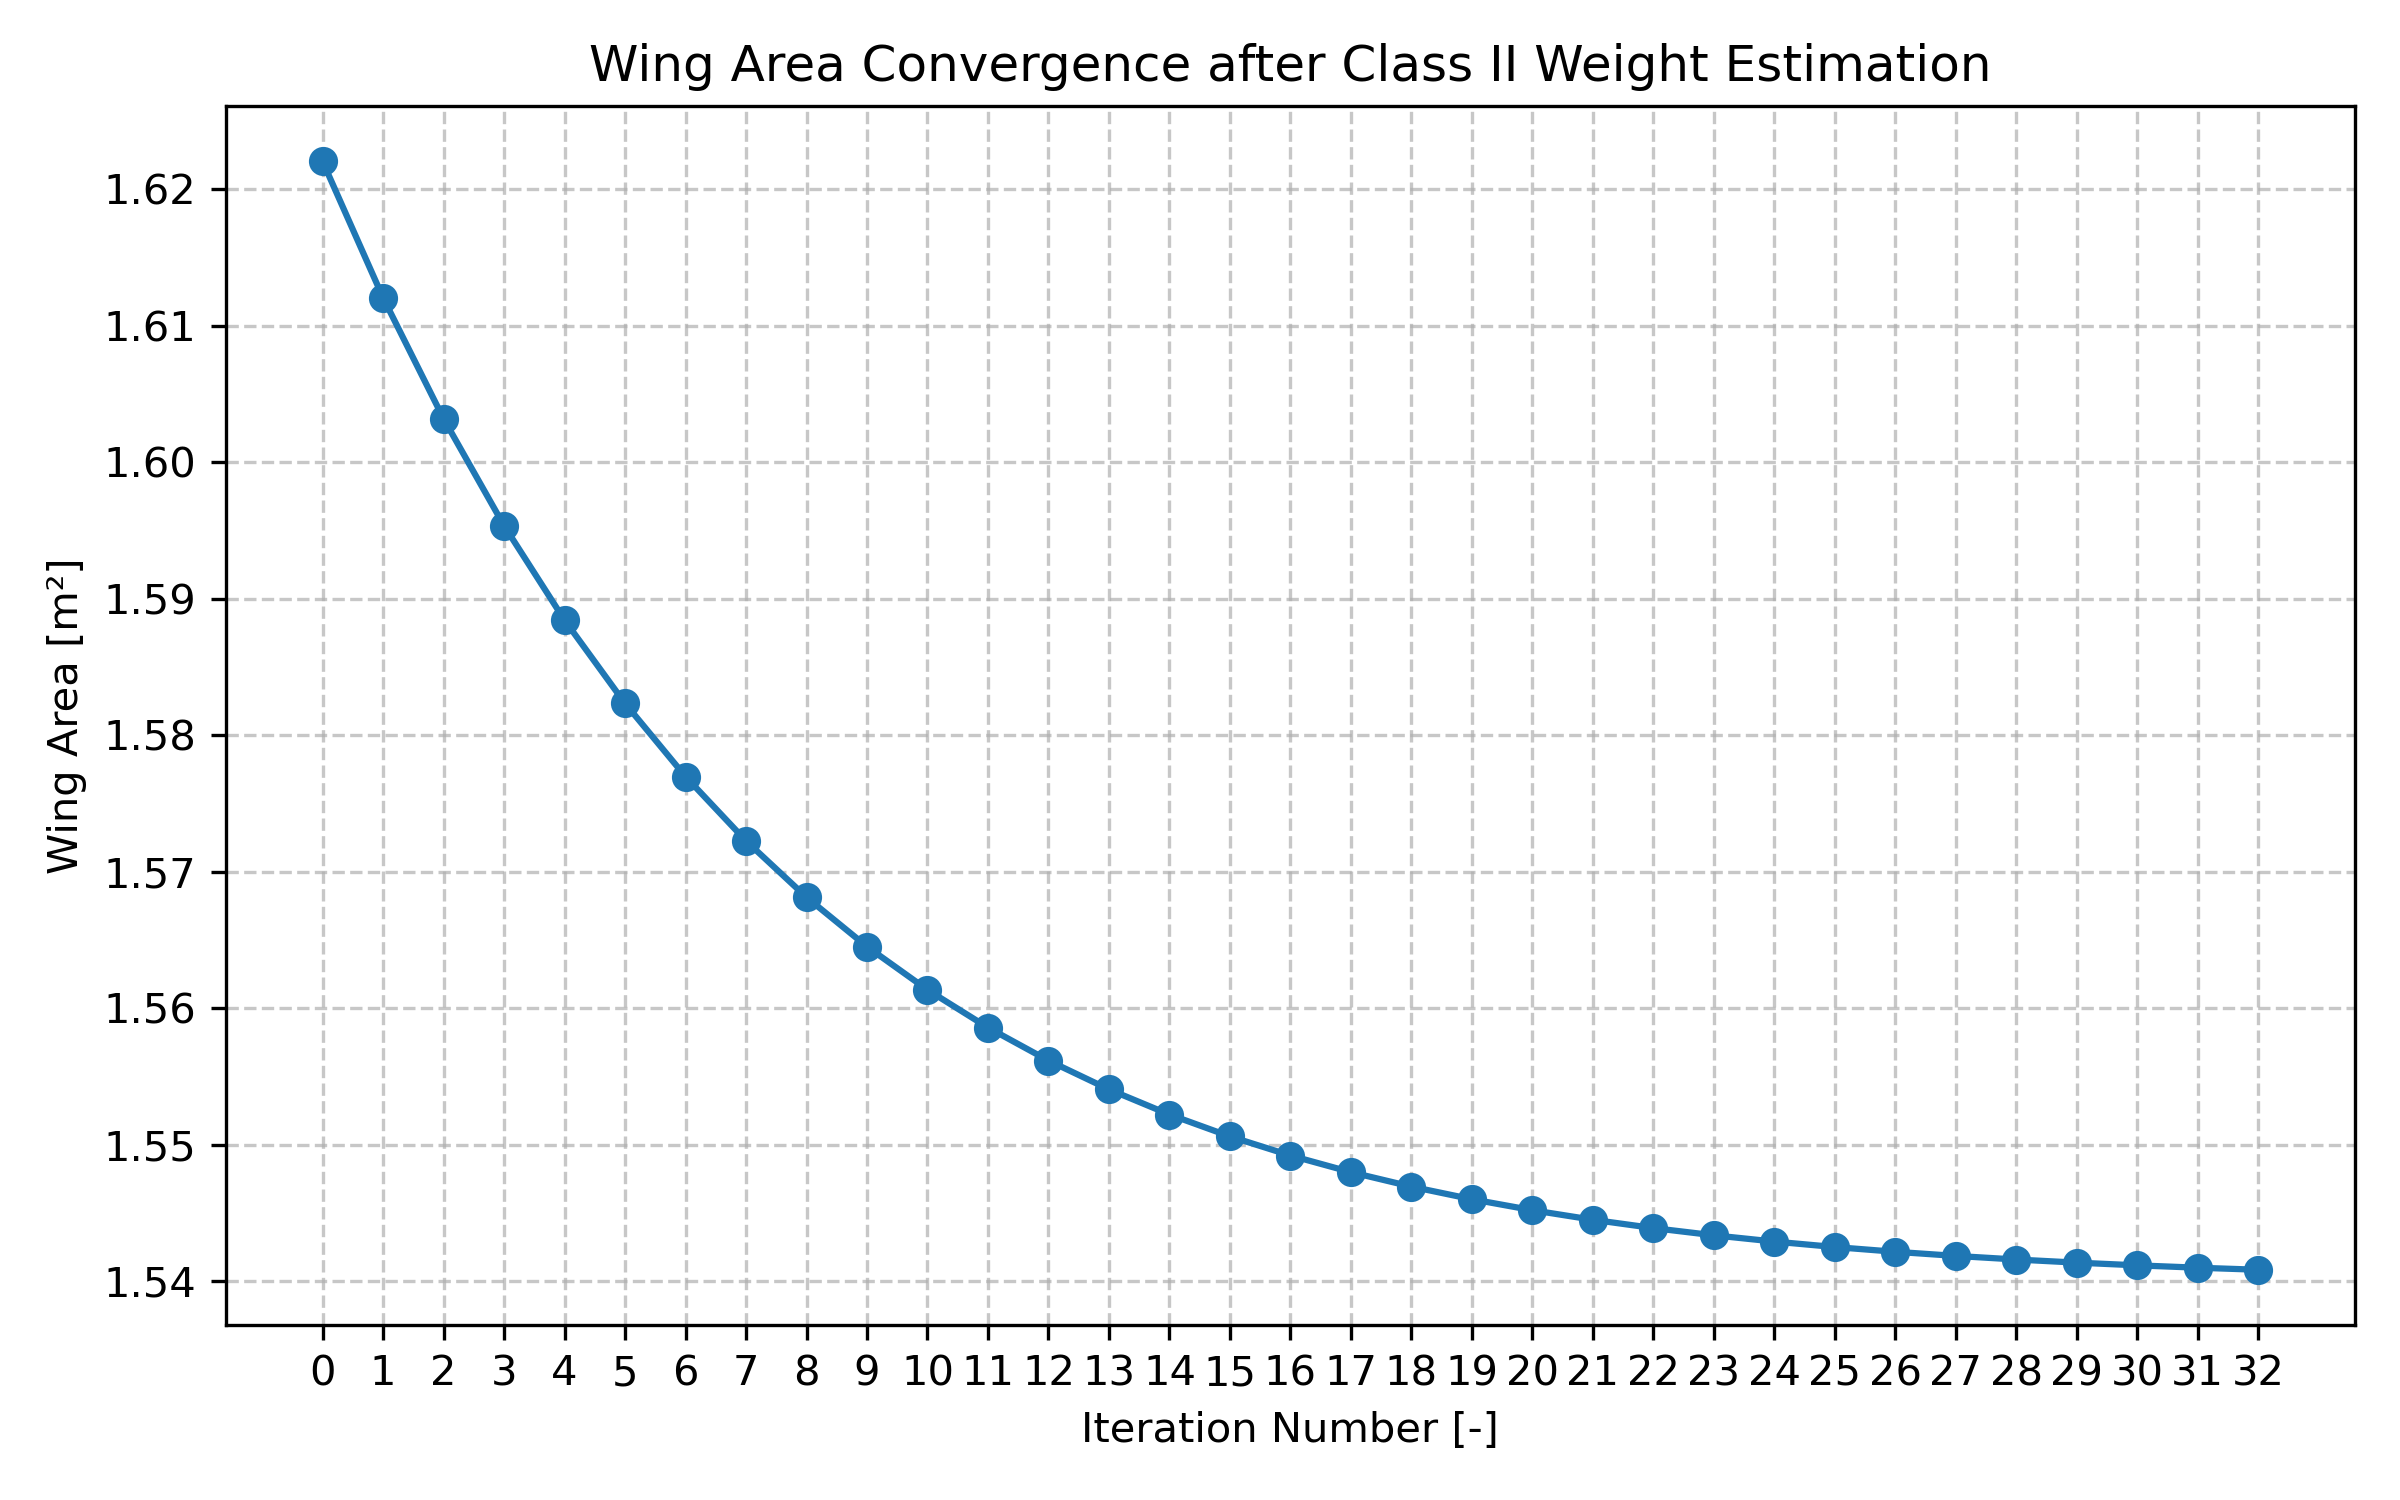
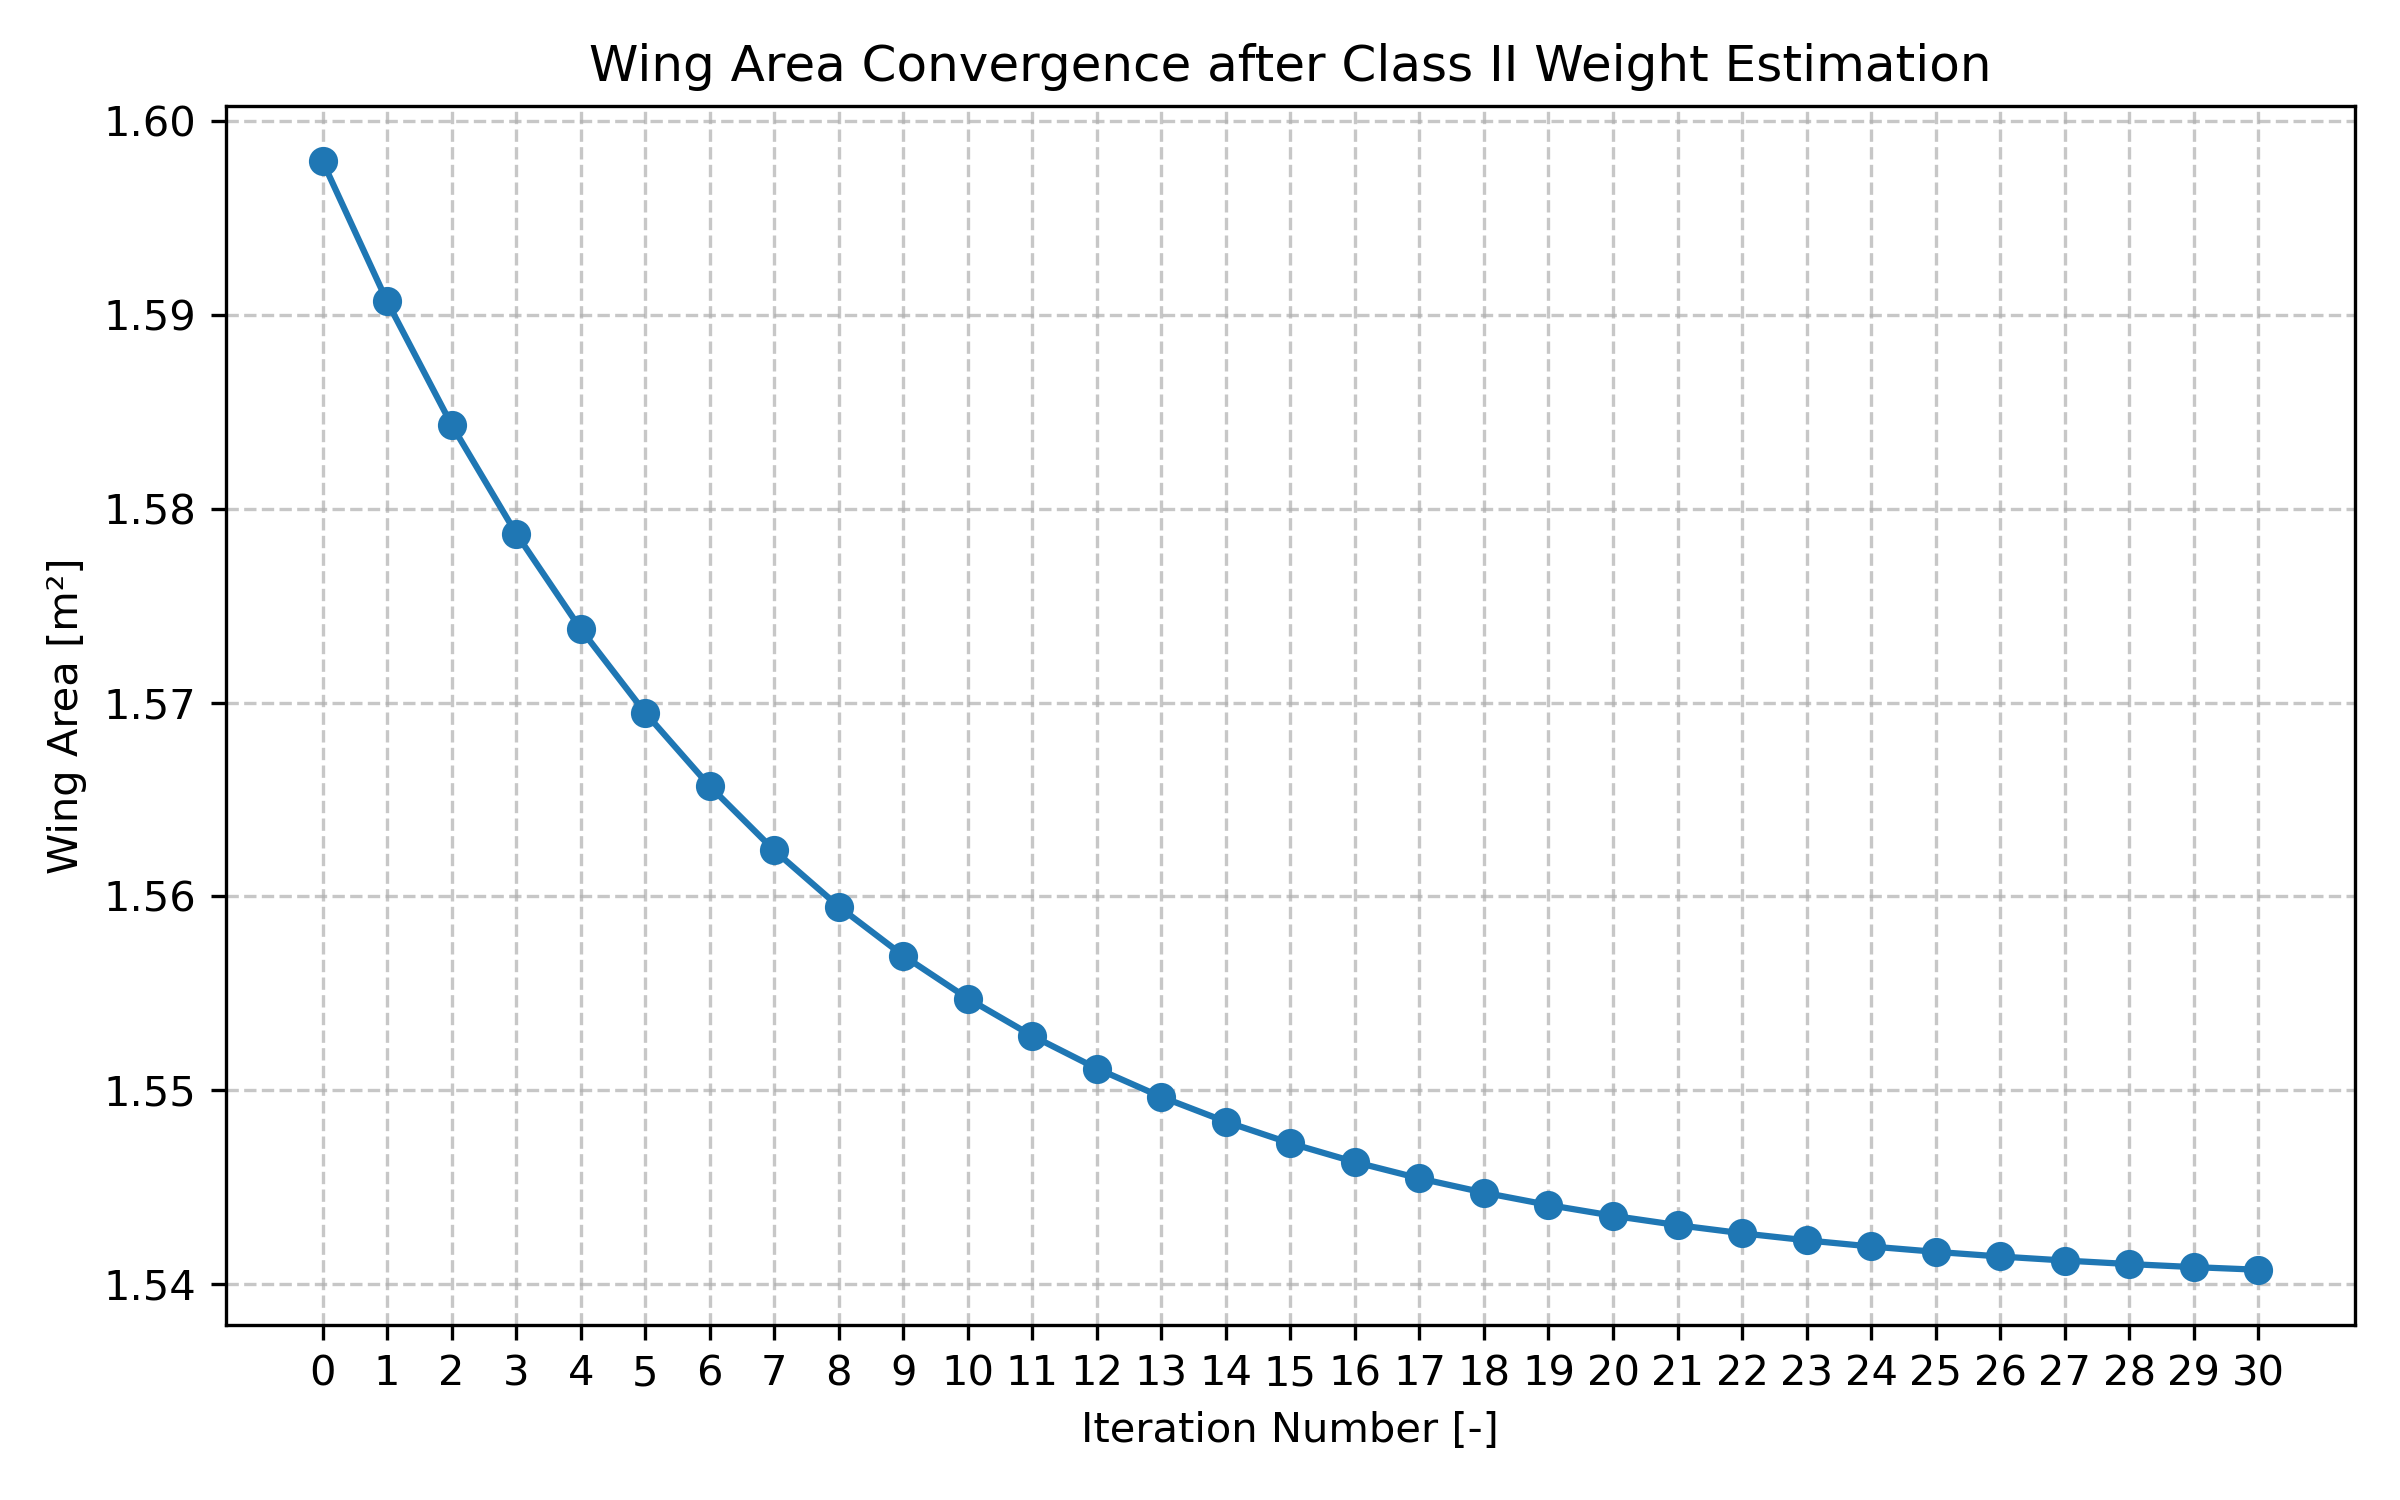
general printing

diff --git a/prelim_des/drone.py b/prelim_des/drone.py
@@ -67,6 +67,9 @@ class Drone:
             + self.propulsion.weight(mission_energy)
         )
         print(f"Mission Energy: {mission_energy[0]:.2f} J" if mission_energy is not None else "Mission Energy: Not calculated")
+        print(f"Battery Weight: {self.propulsion.battery.weight(energy_required=mission_energy)[0]:.2f} kg" if hasattr(self.propulsion, 'battery') else "Battery Weight: Not available")
+        print(f"Motor Weight: {self.propulsion.motor.weight():.2f} kg" if hasattr(self.propulsion, 'motor') else "Motor Weight: Not available")
+        print(f"Propeller Weight: {self.propulsion.ver_prop.weight():.2f} kg" if hasattr(self.propulsion, 'ver_prop') else "Propeller Weight: Not available")
         print(f"Component Weights: Wing = {self.wing.weight()[0]:.2f} kg, "
               f"Fuselage = {self.fuselage.weight()[0]:.5f} kg, "
                 f"Landing Gear = {self.landing_gear.weight()[0]:.2f} kg, "

diff --git a/prelim_des/test.py b/prelim_des/test.py
@@ -23,7 +23,7 @@ drone.class_2_weight_estimate()
 # print("Drone MTOW after class 2 estimate:", drone.MTOW)
 # print("Drone OEW after class 2 estimate:", drone.OEW)
 
-# drone.iterative_weight_estimate(plot=True, tolerance=0.0001)
+drone.iterative_weight_estimate(plot=True, tolerance=0.0001)
 
 # drone.wing.plot_planform(saveplot=True)
 
